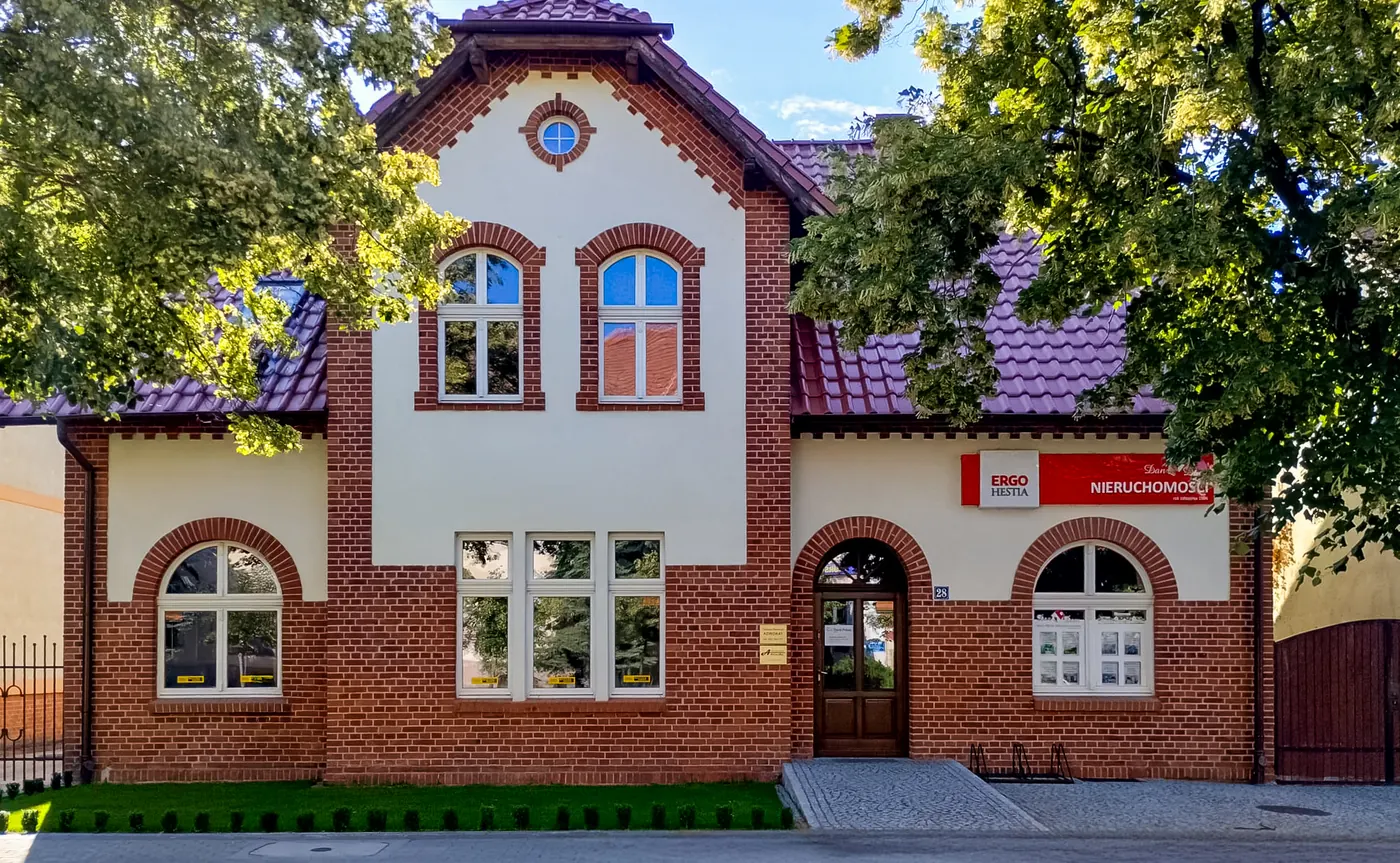
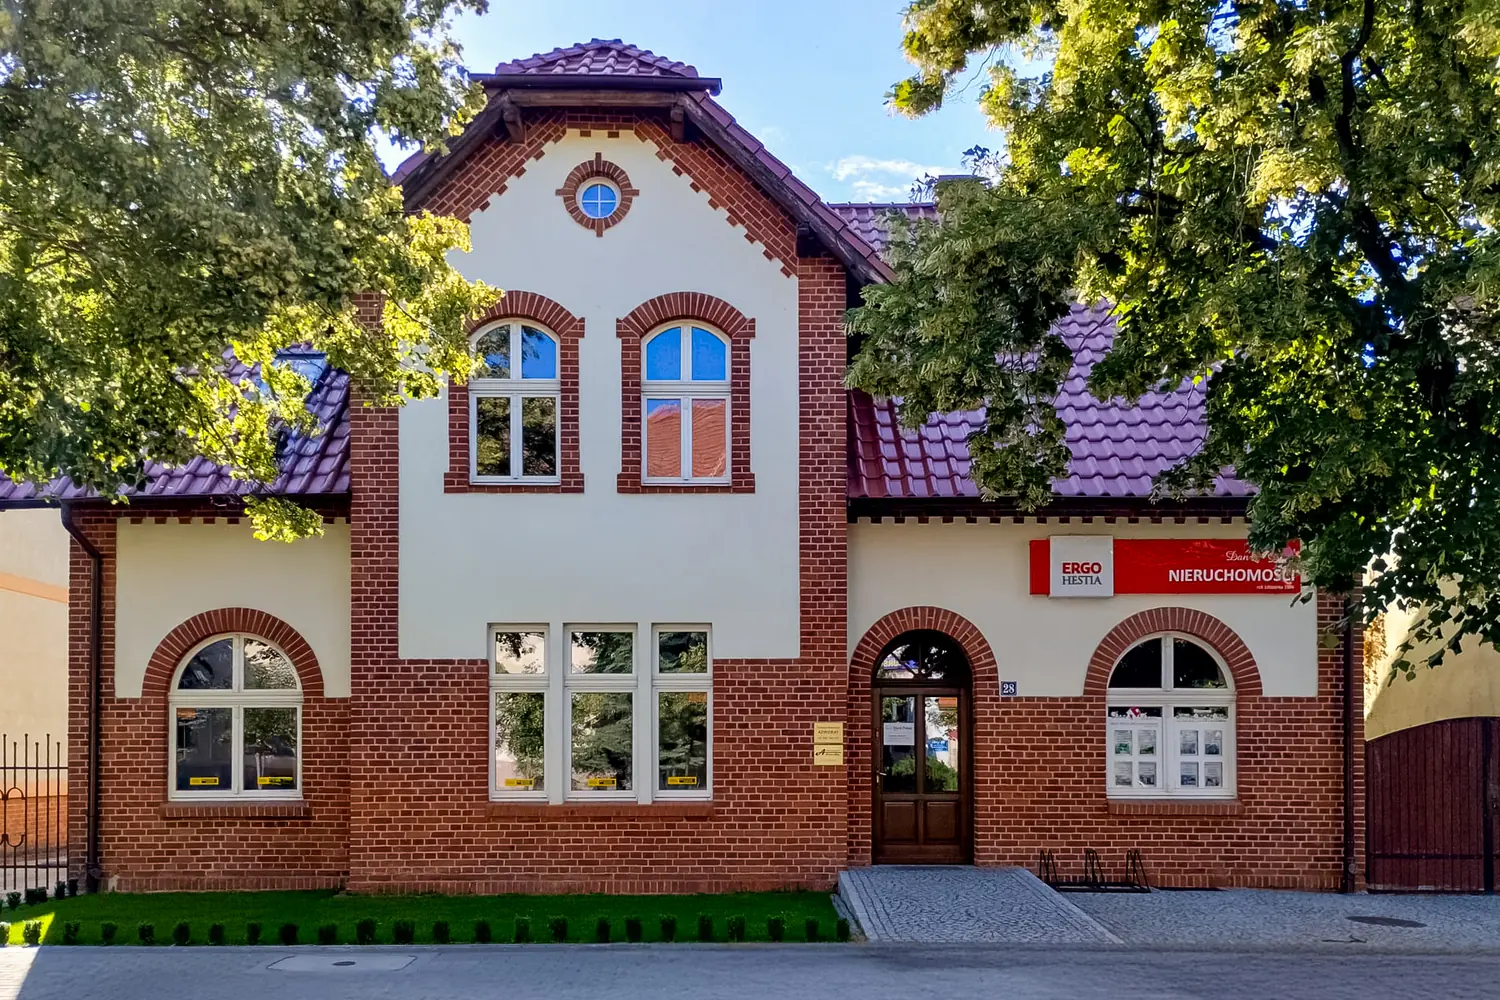
Ramka biura 3:2 (WYSIWYG) — całe zdjęcie z zapasem wokół budynku
- .biuro-photo aspect-ratio 3/2 = proporcja zdjęcia -> zero docinania na każdym ekranie
- budynek.webp: pełna kompozycja 1500x1000 (drzewa po bokach, niebo, podjazd)
- object-position center, cache-bust ?v=2026-07-3

diff --git a/index.html b/index.html
@@ -636,11 +636,12 @@
   }
   .biuro-photo {
     position: relative; overflow: hidden;
+    aspect-ratio: 3 / 2;
   }
   .biuro-photo img {
     position: absolute; inset: 0;
     width: 100%; height: 100%;
-    object-fit: cover; object-position: center 20%;
+    object-fit: cover; object-position: center 50%;
     display: block;
     filter: brightness(0.88) contrast(1.04);
     transition: transform 8s ease-out;
@@ -1970,7 +1971,7 @@
 <!-- BIURO -->
 <section id="biuro">
   <div class="biuro-photo">
-    <img src="budynek.webp?v=2026-07-2" alt="Biuro eksperta kredytowego Wojciecha Majchrzaka — ul. Kościuszki 28, Wągrowiec" width="1400" height="863" loading="lazy">
+    <img src="budynek.webp?v=2026-07-3" alt="Biuro eksperta kredytowego Wojciecha Majchrzaka — ul. Kościuszki 28, Wągrowiec" width="1500" height="1000" loading="lazy">
   </div>
   <div class="biuro-info reveal">
     <p class="biuro-eyebrow">Moje biuro</p>